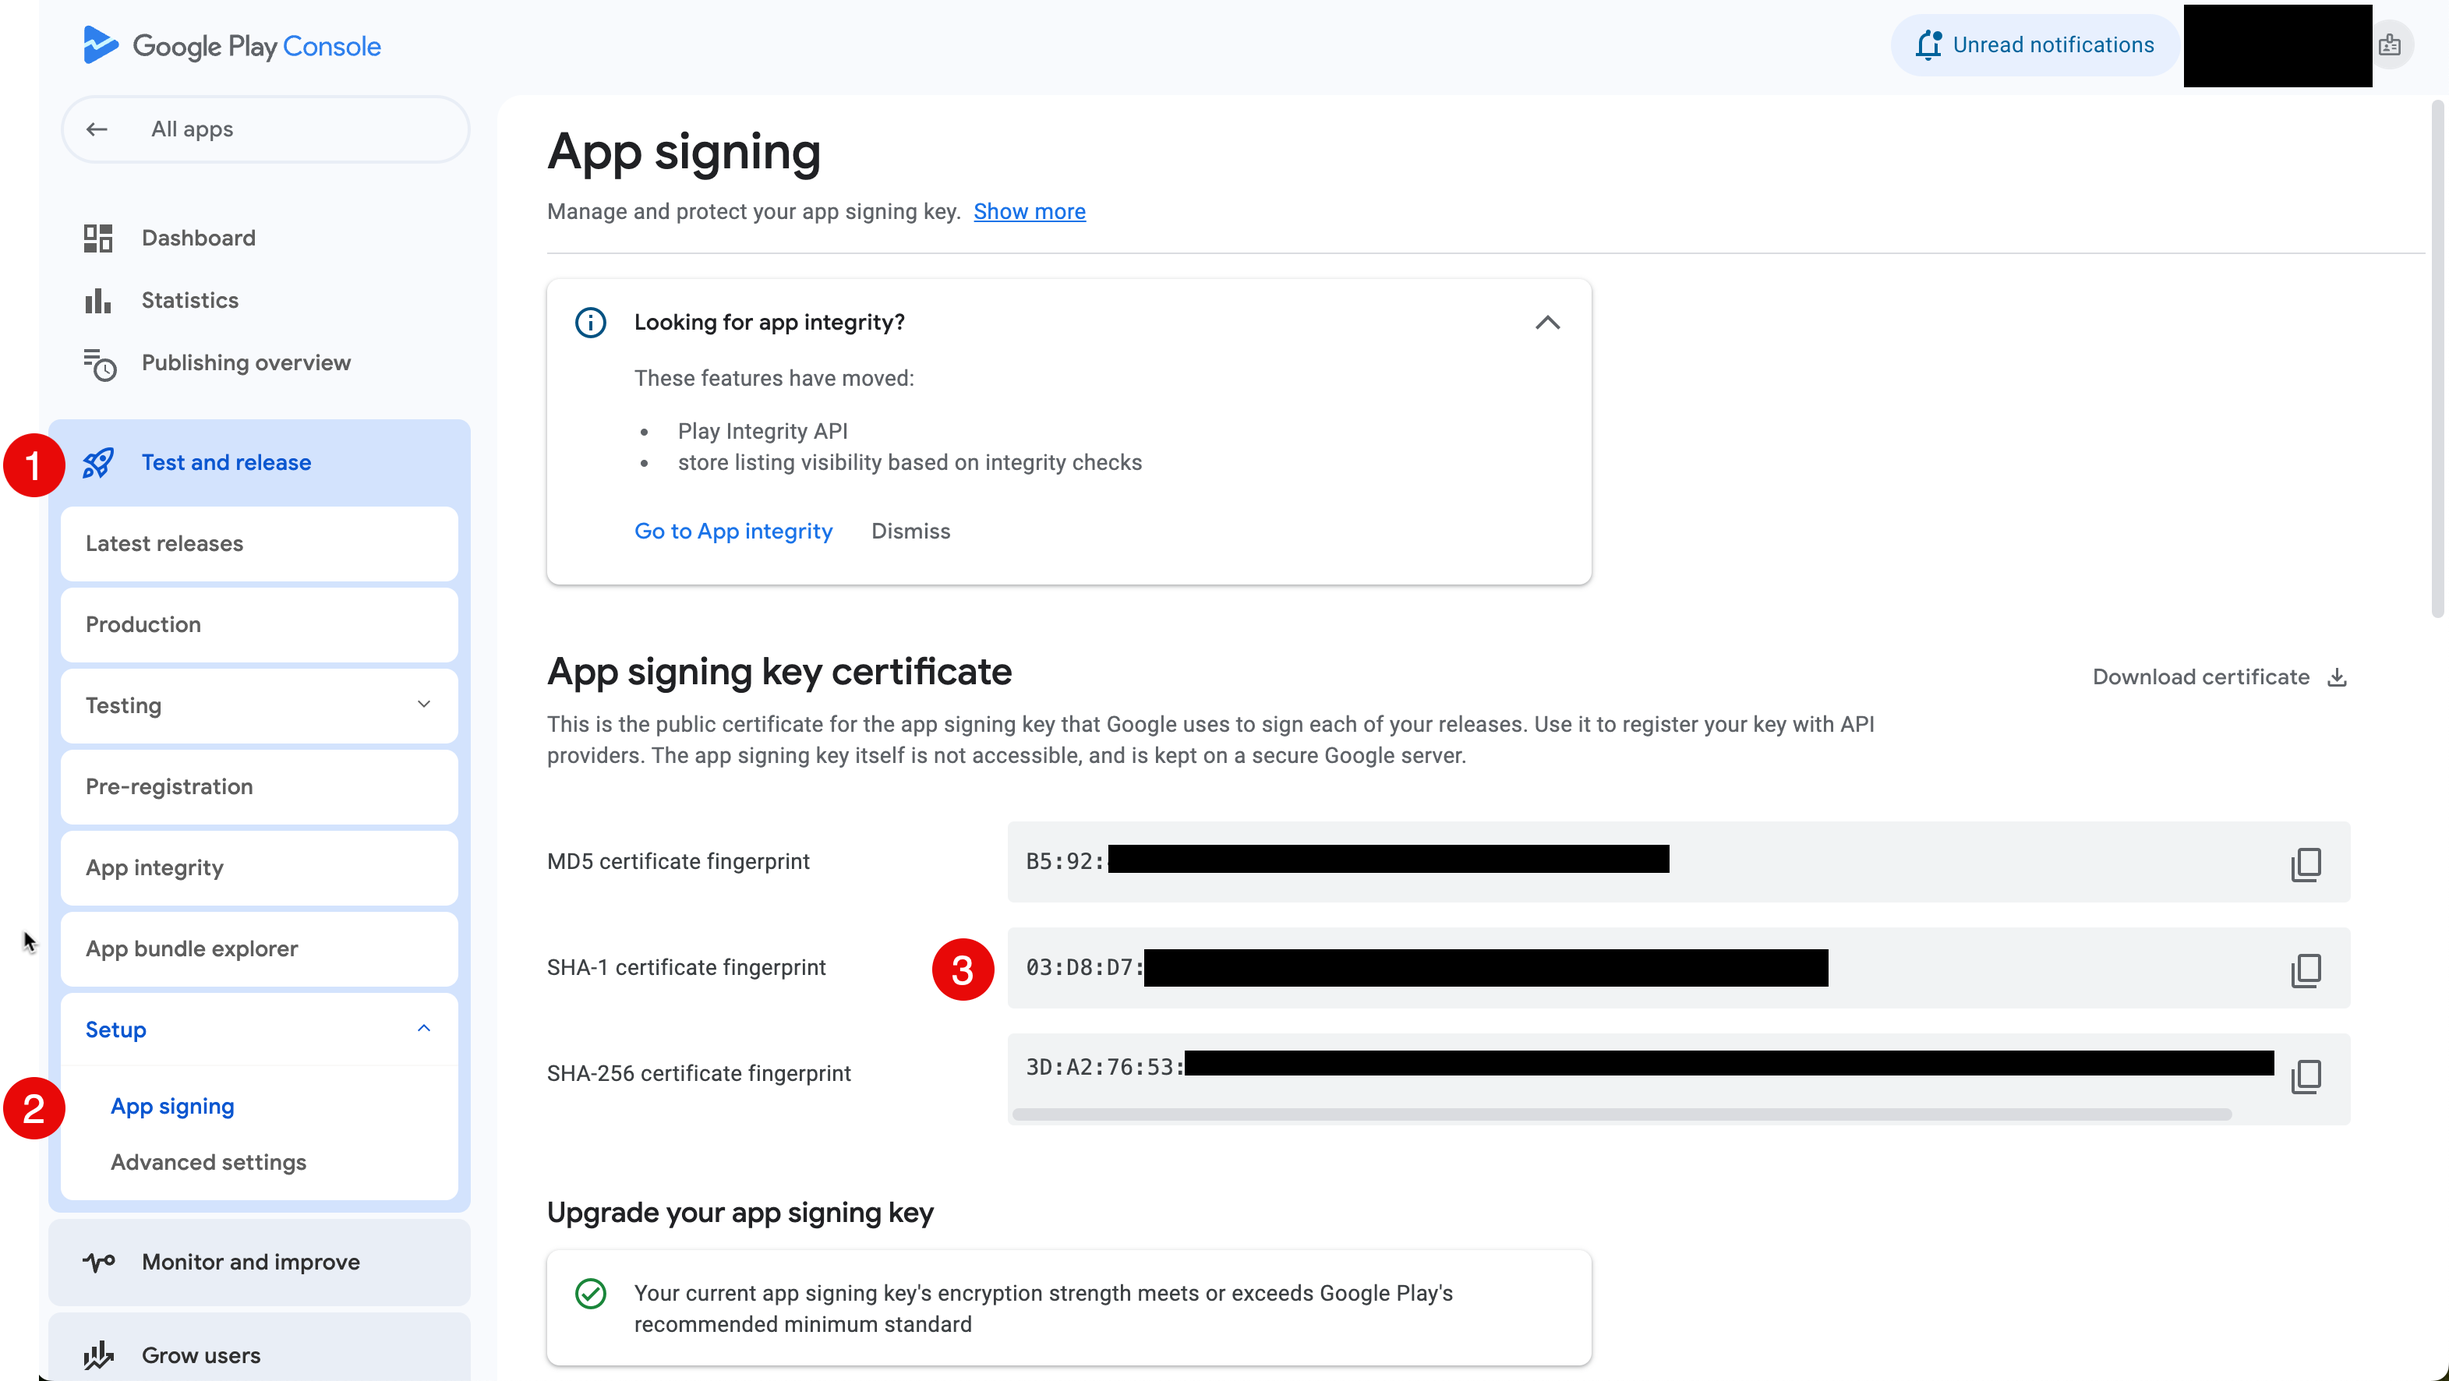
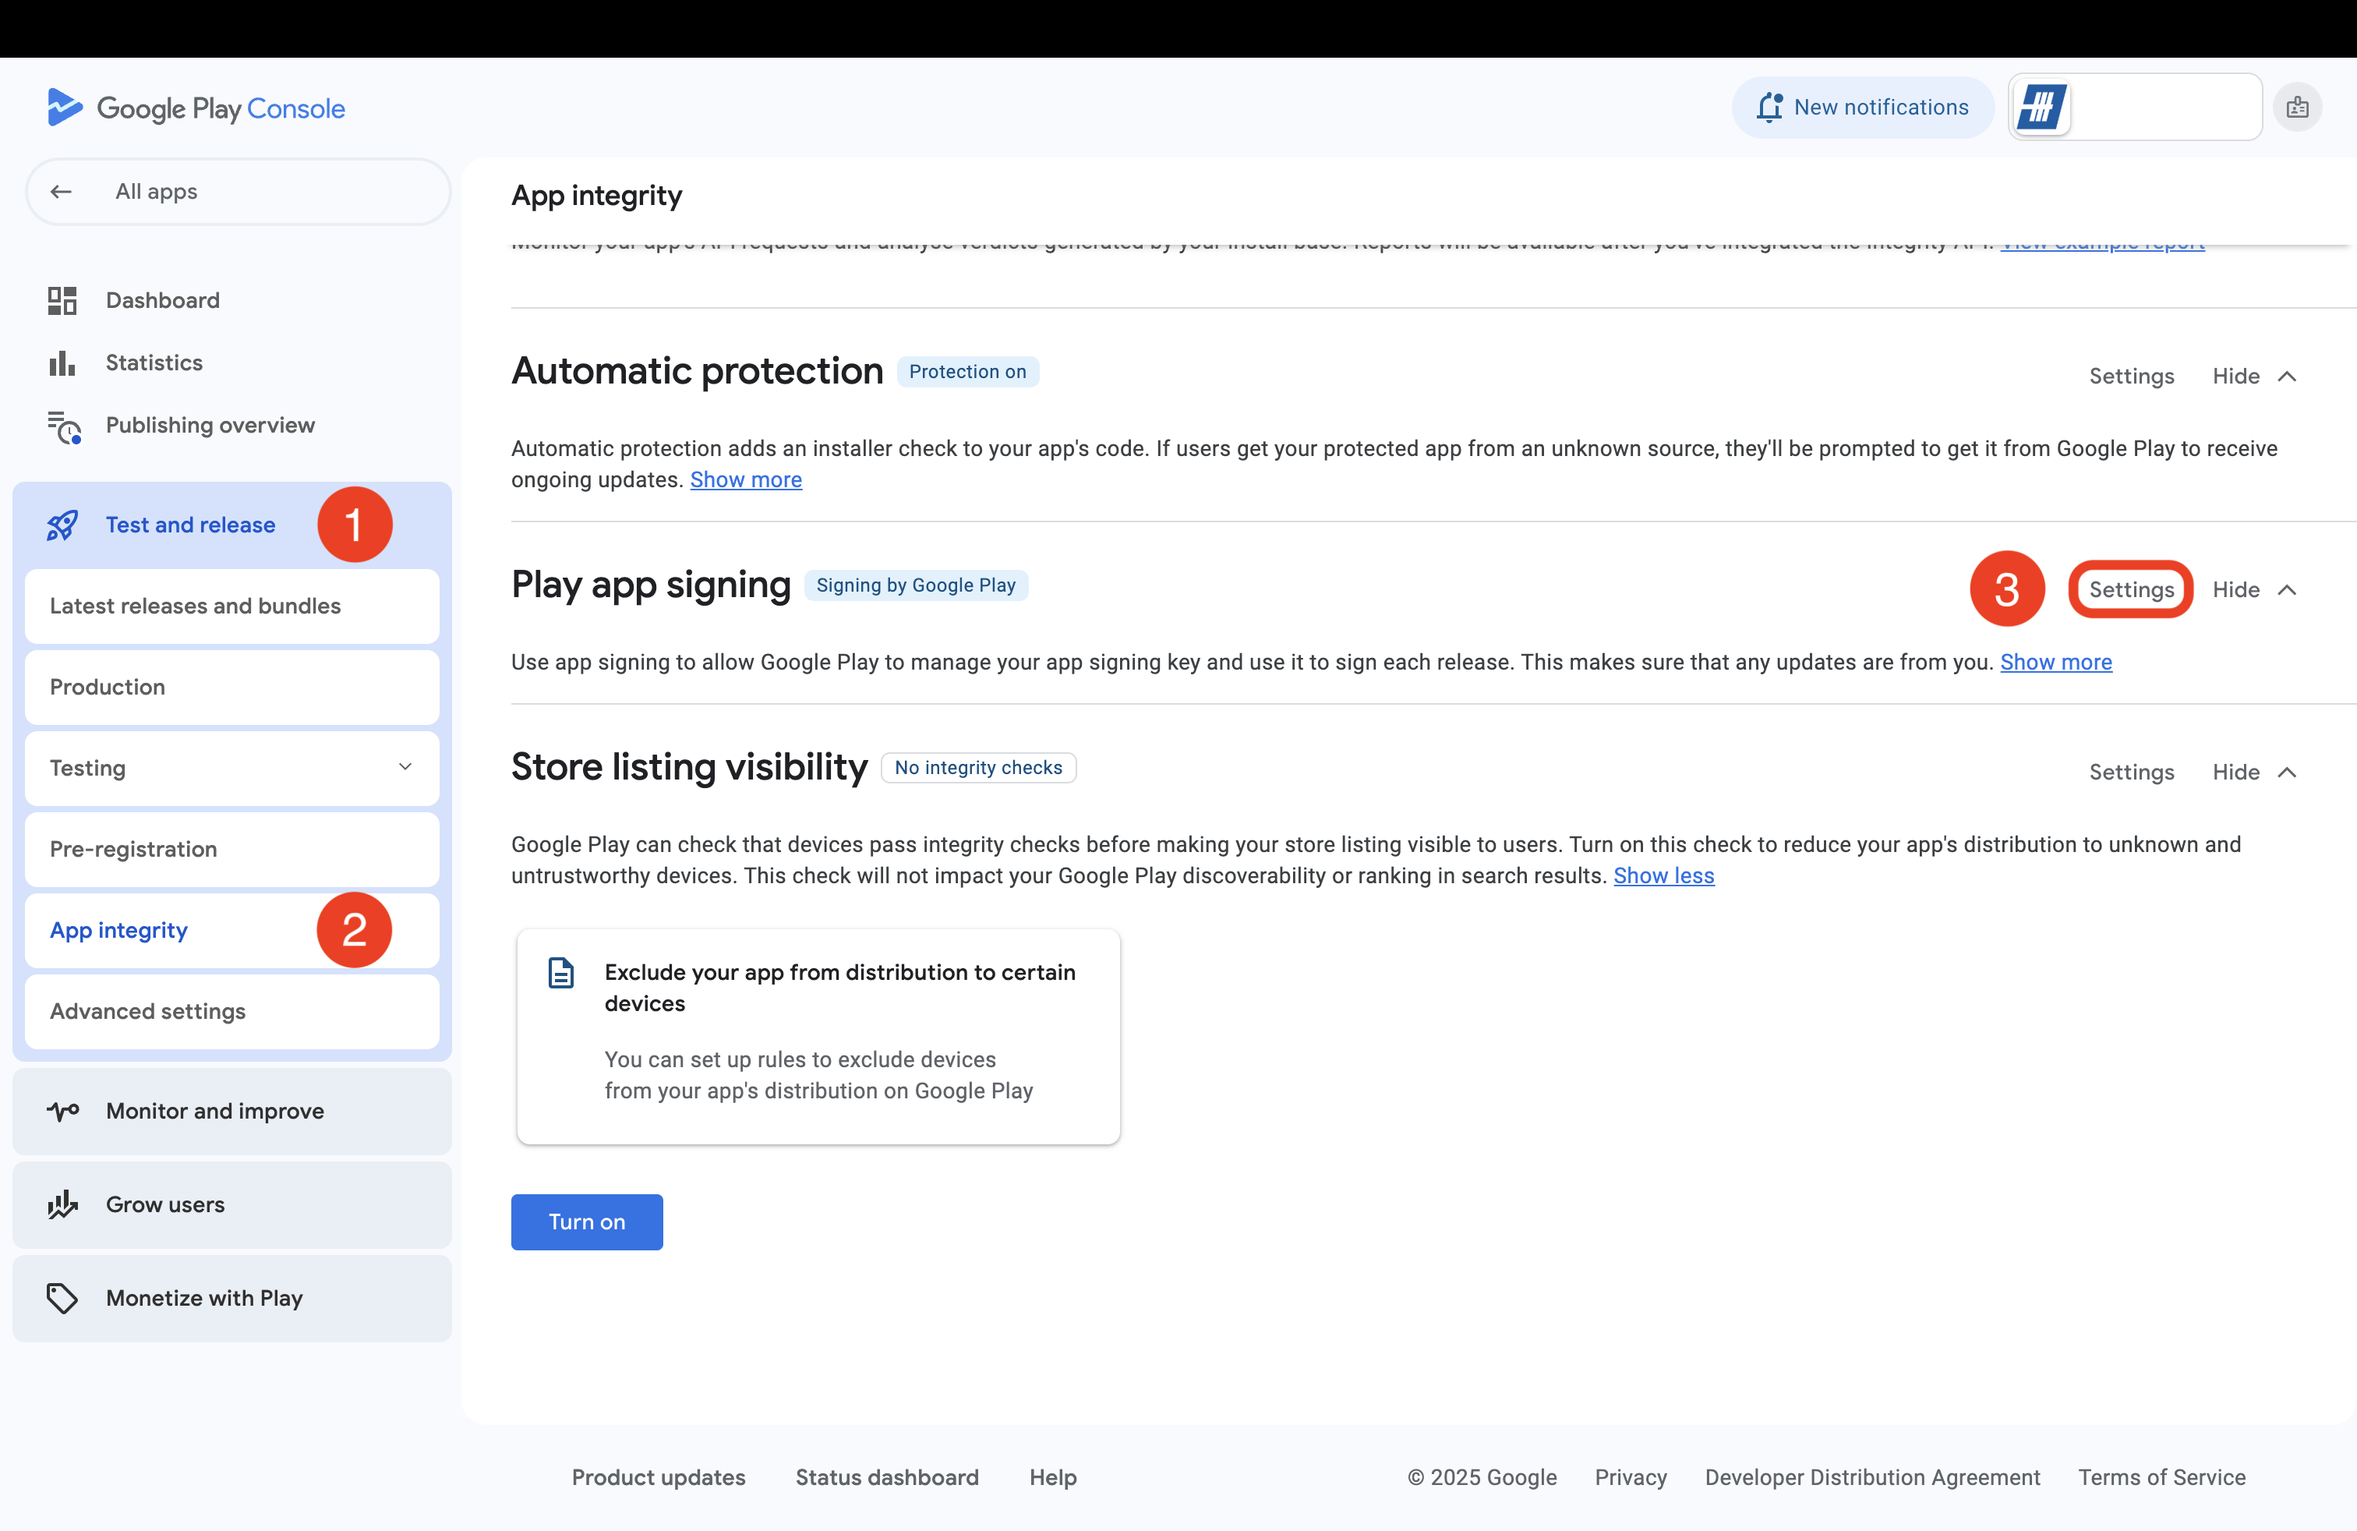
docs: update setup_google.md

diff --git a/docs/setup_google.md b/docs/setup_google.md
@@ -255,10 +255,10 @@ In this part, you will learn how to setup Google login in Android.
 > [!WARNING]
 > The Android SHA1 certificate is beyond painful and I wouldn't wish it on anyone to have to set this up. The following steps assume the simplest scenario of an app that isn't published to Google Play Store and that is only used by the local simulator, or development hardware device. 
 >
-> If you have deployed your app to Google Play Store, you **MUST** add an additional Android client ID that contains the SHA1 from Google Play console for production releases. You can find the SHA1 hash that Google Play uses to sign your release bundle under `Test and release > Setup > App Signing`.
+> If you have deployed your app to Google Play Store, you **MUST** add an additional Android client ID that contains the SHA1 from Google Play console for production releases. You can find the SHA1 hash that Google Play uses to sign your release bundle under `Test and release > App integrity > Play app signing > Settings`.
 >
-> ![](./assets/google_play_signing_key.png)
->
+> ![Google Play App Signing Settings](./assets/google_play_signing_key.png)
+> ![Google Play App Signing SHA1](./assets/google_play_signing_key_2.png)
 > 
 > Finally, it's important to mention that if you mess up, the error will NOT be obvious. It may be very difficult to debug. If you struggle with the setup, please look at the [Github issues](https://github.com/Cap-go/capacitor-social-login/issues).
 > 
